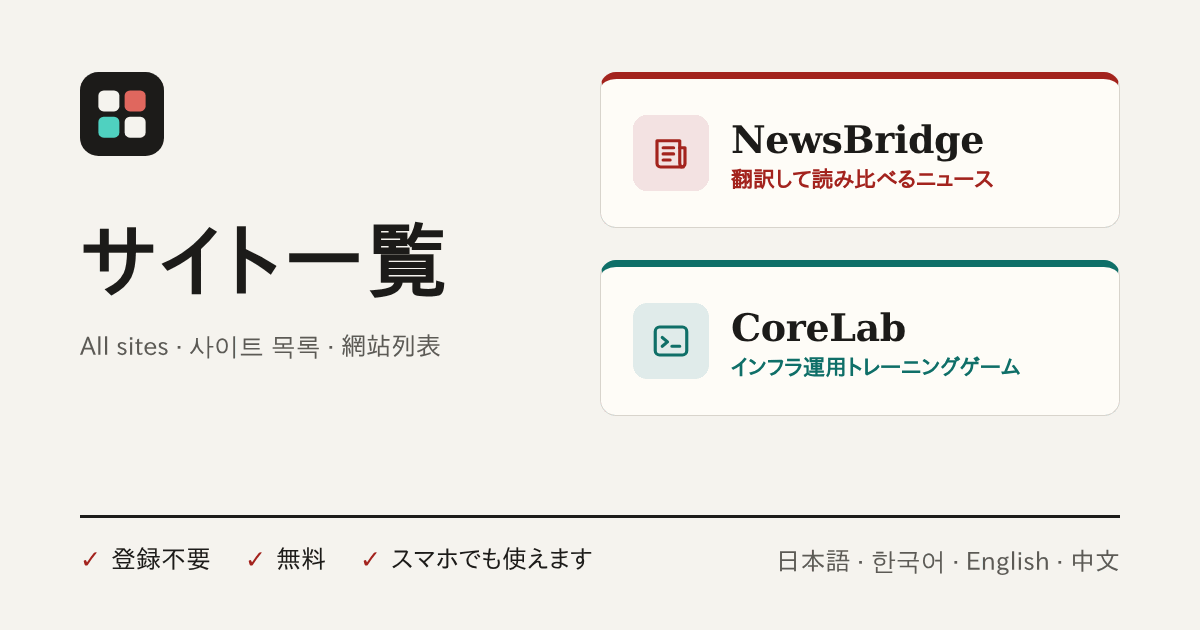
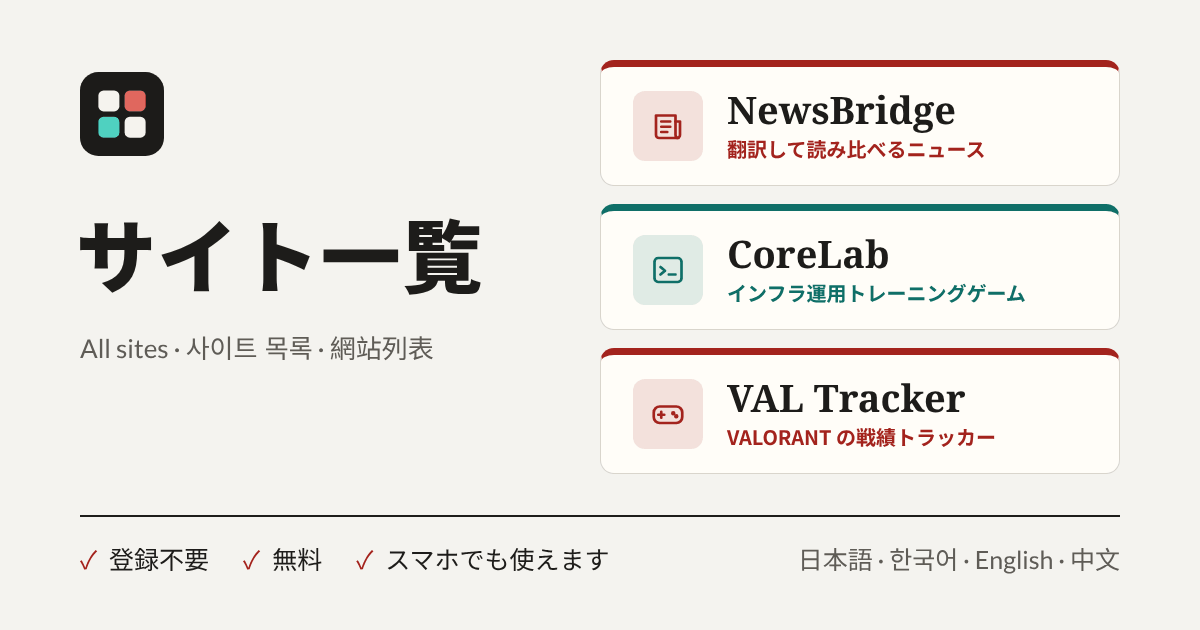
VAL Tracker を /val に載せる: 一覧の項目（4 言語）、VM の取得と更新（setup.sh --repos）、プレビュー画像 (#13)
- sites.toml: VAL Tracker（valorant-project、../VALORANT-Project）を /val に。説明・副題・タグは ja/ko/en-GB/zh-TW
- deploy: setup.sh / update.sh の repos() に valorant-project。Python のパッケージは取得済みの各リポジトリの
  requirements.txt から入れる（今までは News Site のものだけ）
- setup.sh --repos: 足したリポジトリの Deploy key を作って表示し、登録後にもう一度で取得・パッケージ・再起動
- 新しいリポジトリかパッケージを入れたら、サーバーを再起動して読み込む（新しいコミットで先に再起動しても、
  パッケージが入った後にもう一度）
- og.png: NewsBridge・CoreLab・VAL Tracker の 3 枚のカードに

Claude-Session: https://claude.ai/code/session_01AYumRntmyUkNELCNCap64S

diff --git a/deploy/README.md b/deploy/README.md
@@ -1,12 +1,12 @@
 # クラウドのサーバーで配信する（Oracle Cloud Always Free）
 
-PC を切っても `/`・`/news`・`/infra` が動き続けるように、Oracle Cloud の無料 VM で配信する。費用は 0 円（Always Free の範囲だけを使う）。
+PC を切っても `/`・`/news`・`/infra`・`/val` が動き続けるように、Oracle Cloud の無料 VM で配信する。費用は 0 円（Always Free の範囲だけを使う）。
 
 ## しくみ
 
 - **VM**: Oracle Cloud の Always Free、Arm の VM.Standard.A1.Flex（2 OCPU・12 GB、Ubuntu 24.04）
 - **公開**: Tailscale Funnel（`https://<名前>.<tailnet>.ts.net/`）。ポート開放もドメインもいらない。移行のときに PC の今のアドレスを VM に引き継ぐので、配ったリンクはそのまま使える。ただし Funnel は接続のたびに暗号化の握手で 0.7〜5 秒かかるので、速くするには下の「直接配信」で VM から直接配信する（DuckDNS の無料の名前と Caddy）
-- **コード**: GitHub の `home-page`・`news-site`・`infra-game`。VM が 1 分ごとに見に行き、**master** に push されたものに切り替える（`update.sh`。リポジトリの既定ブランチではなく、いつも master）。サーバーは新しいコードで自分で再起動する
+- **コード**: GitHub の `home-page`・`news-site`・`infra-game`・`valorant-project`。VM が 1 分ごとに見に行き、**master** に push されたものに切り替える（`update.sh`。リポジトリの既定ブランチではなく、いつも master）。サーバーは新しいコードで自分で再起動する
 - **データ**: News Site の DB・設定・記事は VM の中（`/srv/sites/News Site/work/app` の `instance/` と `articles/`）。git には入れない。毎時の収集も VM で動く。毎日 4:30 ごろ `instance/` を `/srv/sites/backup` に保存（14 日分）
 - **止められないために**: Always Free の VM は「7 日間、CPU・ネットワーク・メモリがどれも 20% 未満」だと Oracle に回収されることがある。`keepalive.py` がメモリの 25%（4 GB 以上のとき）と、毎晩 3〜5 時（日本時間）の 2 時間だけ CPU を使う。日中は何もしない（1/8 OCPU の VM では、どんなに譲っても使った分だけサイトが遅くなるため）
 
@@ -54,6 +54,17 @@ py -3 deploy\migrate.py
 - News Site のデータだけ PC から送り直す: `py -3 deploy\migrate.py --host <名前> --data-only`（VM にあったデータは `/srv/sites/backup` に移る）
 - 設定の入れ直し（何度実行してもよい）: `sudo bash "/srv/sites/Home Page/deploy/setup.sh"`
 
+## リポジトリ（サイト）を足す
+
+例: VAL Tracker（`valorant-project` → `/srv/sites/VALORANT-Project`、`/val`）。
+
+1. `deploy/setup.sh` と `deploy/update.sh` の `repos()` に `<リポジトリ名> "<フォルダ名>"` を足し、`sites.toml` に `[[site]]` を足して master へ（フォルダは PC と同じ並び。まだ取得していないサイトは一覧に出ないだけ）
+2. PC で `ssh -t haruxera-vm "sudo bash '/srv/sites/Home Page/deploy/setup.sh' --repos"` → 出た URL を開き、**Add deploy key** に鍵を貼る（Title は `sites-server`、Allow write access は付けない）
+3. 同じコマンドをもう一度。取得し、requirements.txt のパッケージを入れ、サーバーを再起動して読み込む
+4. `deploy/livecheck.py` の確認先にそのサイトを足す
+
+VM からの外向きの通信（HTTPS）は制限していないので、サイトが使う外部の API（VAL Tracker なら api.henrikdev.xyz・valorant-api.com・media.valorant-api.com）はそのまま使える。API キーが要るサイトは、持ち主のログインをした端末からそのサイトの設定ページで入れる（VAL Tracker は `/val/settings`）。
+
 ## 直接配信（Funnel より速い）
 
 Funnel は Tailscale の中継を通るので、新しい接続のたびに 0.7〜5 秒待つ（VM の中なら 0.05 秒）。VM の 443 番で Caddy が直接答えるようにすると、この待ちがなくなる。費用は 0 円のまま。
@@ -88,7 +99,7 @@ VM へは鍵の SSH でも入れる（Tailscale がなくてよい）: PC の公
 ```
 cloud-init.sh            VM を作るときに貼る（Tailscale に参加）
 migrate.py               PC で実行: VM の準備、データの移動、アドレスの引き継ぎ
-setup.sh                 VM の準備（何度実行してもよい）、--import / --funnel / --direct / --owner / --units / --sync
+setup.sh                 VM の準備（何度実行してもよい）、--repos / --import / --funnel / --direct / --owner / --units / --sync
 update.sh                1 分ごとに GitHub から取り込む（sites-update.timer）
 import_news_data.py      PC から来た News Site のデータを取り込む
 backup.py                News Site の instance/ を毎日保存（sites-backup.timer）
@@ -97,4 +108,4 @@ livecheck.py             公開アドレスを外から確かめる（GitHub Act
 systemd/                 homepage.service（サーバー）、news-collector.timer（毎時の収集）ほか
 ```
 
-VM の中の配置は PC と同じ並び（`/srv/sites/Home Page`・`/srv/sites/News Site/work/app`・`/srv/sites/Infra Game`）なので、sites.toml はそのまま使える。Python のパッケージは `/srv/sites/venv`、API キーは sites アカウントだけが読めるファイル（keyrings.alt）。
+VM の中の配置は PC と同じ並び（`/srv/sites/Home Page`・`/srv/sites/News Site/work/app`・`/srv/sites/Infra Game`・`/srv/sites/VALORANT-Project`）なので、sites.toml はそのまま使える。Python のパッケージは `/srv/sites/venv`、API キーは sites アカウントだけが読めるファイル（keyrings.alt）。
